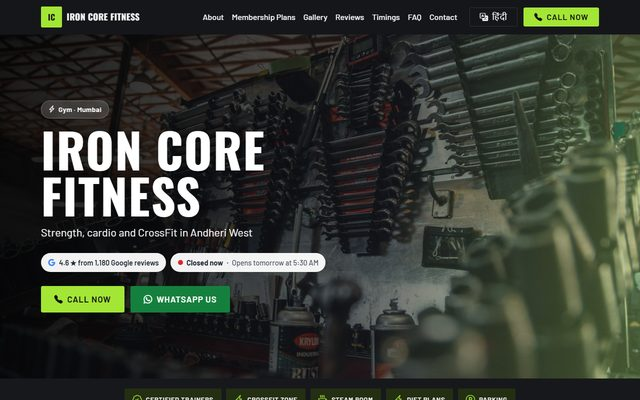
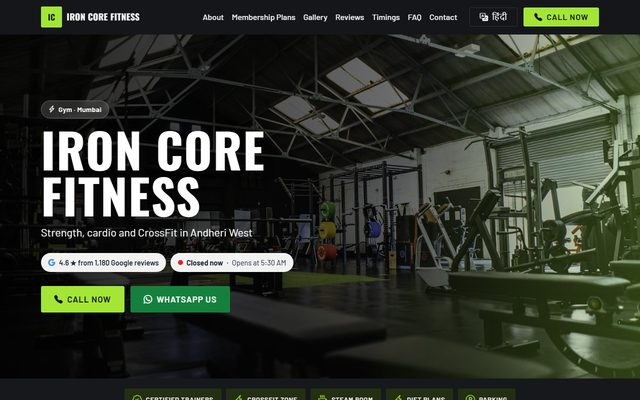
Use Devnixplus contact in samples and fix gym hero photo
- Sample demos: call/WhatsApp and developer contact set to Devnixplus
  (+91 91835 59191); link-preview meta refreshed
- Replace the fitness hero placeholder (was a workshop photo) with a gym
  interior; update credits and the showcase thumbnail

diff --git a/demos/sample-car-service/index.html b/demos/sample-car-service/index.html
@@ -7,10 +7,10 @@
   <meta name="robots" content="noindex, nofollow">
   <!-- META:START: baked from data.js by new_demo.py so link previews work; main.js also sets these at runtime -->
   <title>AutoCare Service Centre | Car Service Centre in Indore</title>
-  <meta name="description" content="Periodic service, AC and body repairs for all car brands in Indore. Plot 7, Scheme 54, Vijay Nagar, Indore, Madhya Pradesh 452010. Call +91 90000 10016.">
+  <meta name="description" content="Periodic service, AC and body repairs for all car brands in Indore. Plot 7, Scheme 54, Vijay Nagar, Indore, Madhya Pradesh 452010. Call +91 91835 59191.">
   <meta property="og:type" content="website">
   <meta property="og:title" content="AutoCare Service Centre | Car Service Centre in Indore">
-  <meta property="og:description" content="Periodic service, AC and body repairs for all car brands in Indore. Plot 7, Scheme 54, Vijay Nagar, Indore, Madhya Pradesh 452010. Call +91 90000 10016.">
+  <meta property="og:description" content="Periodic service, AC and body repairs for all car brands in Indore. Plot 7, Scheme 54, Vijay Nagar, Indore, Madhya Pradesh 452010. Call +91 91835 59191.">
   <meta property="og:image" content="https://sample-car-service.mydomain.com/placeholders/industrial/hero.jpg">
   <meta property="og:url" content="https://sample-car-service.mydomain.com/">
   <meta name="twitter:card" content="summary_large_image">

diff --git a/demos/sample-salon/index.html b/demos/sample-salon/index.html
@@ -7,10 +7,10 @@
   <meta name="robots" content="noindex, nofollow">
   <!-- META:START: baked from data.js by new_demo.py so link previews work; main.js also sets these at runtime -->
   <title>Glow &amp; Grace Unisex Salon | Salon in Bengaluru</title>
-  <meta name="description" content="Hair, skin and bridal experts in Indiranagar. No. 45, 12th Main Road, HAL 2nd Stage, Indiranagar, Bengaluru, Karnataka 560038. Call +91 99000 11223.">
+  <meta name="description" content="Hair, skin and bridal experts in Indiranagar. No. 45, 12th Main Road, HAL 2nd Stage, Indiranagar, Bengaluru, Karnataka 560038. Call +91 91835 59191.">
   <meta property="og:type" content="website">
   <meta property="og:title" content="Glow &amp; Grace Unisex Salon | Salon in Bengaluru">
-  <meta property="og:description" content="Hair, skin and bridal experts in Indiranagar. No. 45, 12th Main Road, HAL 2nd Stage, Indiranagar, Bengaluru, Karnataka 560038. Call +91 99000 11223.">
+  <meta property="og:description" content="Hair, skin and bridal experts in Indiranagar. No. 45, 12th Main Road, HAL 2nd Stage, Indiranagar, Bengaluru, Karnataka 560038. Call +91 91835 59191.">
   <meta property="og:image" content="https://images.unsplash.com/photo-1560066984-138dadb4c035?w=1600&amp;h=900&amp;fit=crop&amp;q=70">
   <meta property="og:url" content="https://sample-salon.mydomain.com/">
   <meta name="twitter:card" content="summary_large_image">

diff --git a/demos/sample-handyman/index.html b/demos/sample-handyman/index.html
@@ -7,10 +7,10 @@
   <meta name="robots" content="noindex, nofollow">
   <!-- META:START: baked from data.js by new_demo.py so link previews work; main.js also sets these at runtime -->
   <title>FixIt Home Services | Handyman Service in Pune</title>
-  <meta name="description" content="Plumbers, electricians and carpenters at your door in Pune. Shop 5, Siddhi Apartments, Karve Road, Kothrud, Pune, Maharashtra 411038. Call +91 90000 10008.">
+  <meta name="description" content="Plumbers, electricians and carpenters at your door in Pune. Shop 5, Siddhi Apartments, Karve Road, Kothrud, Pune, Maharashtra 411038. Call +91 91835 59191.">
   <meta property="og:type" content="website">
   <meta property="og:title" content="FixIt Home Services | Handyman Service in Pune">
-  <meta property="og:description" content="Plumbers, electricians and carpenters at your door in Pune. Shop 5, Siddhi Apartments, Karve Road, Kothrud, Pune, Maharashtra 411038. Call +91 90000 10008.">
+  <meta property="og:description" content="Plumbers, electricians and carpenters at your door in Pune. Shop 5, Siddhi Apartments, Karve Road, Kothrud, Pune, Maharashtra 411038. Call +91 91835 59191.">
   <meta property="og:image" content="https://sample-handyman.mydomain.com/placeholders/trades/hero.jpg">
   <meta property="og:url" content="https://sample-handyman.mydomain.com/">
   <meta name="twitter:card" content="summary_large_image">

diff --git a/demos/sample-travel/index.html b/demos/sample-travel/index.html
@@ -7,10 +7,10 @@
   <meta name="robots" content="noindex, nofollow">
   <!-- META:START: baked from data.js by new_demo.py so link previews work; main.js also sets these at runtime -->
   <title>Wanderlust Holidays | Tour &amp; Travel Agency in Jaipur</title>
-  <meta name="description" content="Holiday packages, tickets and cabs, planned end to end from Jaipur. Office 204, Ganpati Plaza, MI Road, Jaipur, Rajasthan 302001. Call +91 90000 10006.">
+  <meta name="description" content="Holiday packages, tickets and cabs, planned end to end from Jaipur. Office 204, Ganpati Plaza, MI Road, Jaipur, Rajasthan 302001. Call +91 91835 59191.">
   <meta property="og:type" content="website">
   <meta property="og:title" content="Wanderlust Holidays | Tour &amp; Travel Agency in Jaipur">
-  <meta property="og:description" content="Holiday packages, tickets and cabs, planned end to end from Jaipur. Office 204, Ganpati Plaza, MI Road, Jaipur, Rajasthan 302001. Call +91 90000 10006.">
+  <meta property="og:description" content="Holiday packages, tickets and cabs, planned end to end from Jaipur. Office 204, Ganpati Plaza, MI Road, Jaipur, Rajasthan 302001. Call +91 91835 59191.">
   <meta property="og:image" content="https://sample-travel.mydomain.com/placeholders/travel/hero.jpg">
   <meta property="og:url" content="https://sample-travel.mydomain.com/">
   <meta name="twitter:card" content="summary_large_image">

diff --git a/demos/sample-cafe/index.html b/demos/sample-cafe/index.html
@@ -7,10 +7,10 @@
   <meta name="robots" content="noindex, nofollow">
   <!-- META:START: baked from data.js by new_demo.py so link previews work; main.js also sets these at runtime -->
   <title>Brew Theory Café | Cafe in Mumbai</title>
-  <meta name="description" content="Specialty coffee, all-day breakfast and work-friendly corners in Bandra. Shop 3, Silver Arch, Hill Road, Bandra West, Mumbai, Maharashtra 400050. Call +91 90000">
+  <meta name="description" content="Specialty coffee, all-day breakfast and work-friendly corners in Bandra. Shop 3, Silver Arch, Hill Road, Bandra West, Mumbai, Maharashtra 400050. Call +91 91835">
   <meta property="og:type" content="website">
   <meta property="og:title" content="Brew Theory Café | Cafe in Mumbai">
-  <meta property="og:description" content="Specialty coffee, all-day breakfast and work-friendly corners in Bandra. Shop 3, Silver Arch, Hill Road, Bandra West, Mumbai, Maharashtra 400050. Call +91 90000">
+  <meta property="og:description" content="Specialty coffee, all-day breakfast and work-friendly corners in Bandra. Shop 3, Silver Arch, Hill Road, Bandra West, Mumbai, Maharashtra 400050. Call +91 91835">
   <meta property="og:image" content="https://sample-cafe.mydomain.com/placeholders/cafe/hero.jpg">
   <meta property="og:url" content="https://sample-cafe.mydomain.com/">
   <meta name="twitter:card" content="summary_large_image">

diff --git a/demos/sample-spa/index.html b/demos/sample-spa/index.html
@@ -7,10 +7,10 @@
   <meta name="robots" content="noindex, nofollow">
   <!-- META:START: baked from data.js by new_demo.py so link previews work; main.js also sets these at runtime -->
   <title>Tranquil Leaf Spa &amp; Massage | Spa in Bengaluru</title>
-  <meta name="description" content="Ayurvedic and modern massage therapies in Koramangala. No. 21, 5th Block, 80 Feet Road, Koramangala, Bengaluru, Karnataka 560095. Call +91 90000 10001.">
+  <meta name="description" content="Ayurvedic and modern massage therapies in Koramangala. No. 21, 5th Block, 80 Feet Road, Koramangala, Bengaluru, Karnataka 560095. Call +91 91835 59191.">
   <meta property="og:type" content="website">
   <meta property="og:title" content="Tranquil Leaf Spa &amp; Massage | Spa in Bengaluru">
-  <meta property="og:description" content="Ayurvedic and modern massage therapies in Koramangala. No. 21, 5th Block, 80 Feet Road, Koramangala, Bengaluru, Karnataka 560095. Call +91 90000 10001.">
+  <meta property="og:description" content="Ayurvedic and modern massage therapies in Koramangala. No. 21, 5th Block, 80 Feet Road, Koramangala, Bengaluru, Karnataka 560095. Call +91 91835 59191.">
   <meta property="og:image" content="https://sample-spa.mydomain.com/placeholders/wellness/hero.jpg">
   <meta property="og:url" content="https://sample-spa.mydomain.com/">
   <meta name="twitter:card" content="summary_large_image">

diff --git a/demos/sample-boutique/index.html b/demos/sample-boutique/index.html
@@ -7,10 +7,10 @@
   <meta name="robots" content="noindex, nofollow">
   <!-- META:START: baked from data.js by new_demo.py so link previews work; main.js also sets these at runtime -->
   <title>Rangoli Designer Boutique | Boutique in Ahmedabad</title>
-  <meta name="description" content="Handpicked sarees, suits and custom-stitched outfits in Ahmedabad. 12, Shivalik Plaza, Navrangpura, Ahmedabad, Gujarat 380009. Call +91 90000 10012.">
+  <meta name="description" content="Handpicked sarees, suits and custom-stitched outfits in Ahmedabad. 12, Shivalik Plaza, Navrangpura, Ahmedabad, Gujarat 380009. Call +91 91835 59191.">
   <meta property="og:type" content="website">
   <meta property="og:title" content="Rangoli Designer Boutique | Boutique in Ahmedabad">
-  <meta property="og:description" content="Handpicked sarees, suits and custom-stitched outfits in Ahmedabad. 12, Shivalik Plaza, Navrangpura, Ahmedabad, Gujarat 380009. Call +91 90000 10012.">
+  <meta property="og:description" content="Handpicked sarees, suits and custom-stitched outfits in Ahmedabad. 12, Shivalik Plaza, Navrangpura, Ahmedabad, Gujarat 380009. Call +91 91835 59191.">
   <meta property="og:image" content="https://sample-boutique.mydomain.com/placeholders/boutique/hero.jpg">
   <meta property="og:url" content="https://sample-boutique.mydomain.com/">
   <meta name="twitter:card" content="summary_large_image">

diff --git a/demos/sample-hardware/index.html b/demos/sample-hardware/index.html
@@ -7,10 +7,10 @@
   <meta name="robots" content="noindex, nofollow">
   <!-- META:START: baked from data.js by new_demo.py so link previews work; main.js also sets these at runtime -->
   <title>Patel Hardware &amp; Paints | Hardware Store in Surat</title>
-  <meta name="description" content="Tools, plumbing, electricals and paints under one roof in Surat. Shop 4-6, Star Bazaar Road, Adajan, Surat, Gujarat 395009. Call +91 90000 10018.">
+  <meta name="description" content="Tools, plumbing, electricals and paints under one roof in Surat. Shop 4-6, Star Bazaar Road, Adajan, Surat, Gujarat 395009. Call +91 91835 59191.">
   <meta property="og:type" content="website">
   <meta property="og:title" content="Patel Hardware &amp; Paints | Hardware Store in Surat">
-  <meta property="og:description" content="Tools, plumbing, electricals and paints under one roof in Surat. Shop 4-6, Star Bazaar Road, Adajan, Surat, Gujarat 395009. Call +91 90000 10018.">
+  <meta property="og:description" content="Tools, plumbing, electricals and paints under one roof in Surat. Shop 4-6, Star Bazaar Road, Adajan, Surat, Gujarat 395009. Call +91 91835 59191.">
   <meta property="og:image" content="https://sample-hardware.mydomain.com/placeholders/hardware/hero.jpg">
   <meta property="og:url" content="https://sample-hardware.mydomain.com/">
   <meta name="twitter:card" content="summary_large_image">

diff --git a/demos/sample-clinic/index.html b/demos/sample-clinic/index.html
@@ -7,10 +7,10 @@
   <meta name="robots" content="noindex, nofollow">
   <!-- META:START: baked from data.js by new_demo.py so link previews work; main.js also sets these at runtime -->
   <title>Dr. Mehta&#x27;s Family Clinic | Clinic in Ahmedabad</title>
-  <meta name="description" content="Caring, honest treatment for your whole family. 2nd Floor, Shivam Complex, CG Road, Navrangpura, Ahmedabad, Gujarat 380009. Call +91 97250 12345.">
+  <meta name="description" content="Caring, honest treatment for your whole family. 2nd Floor, Shivam Complex, CG Road, Navrangpura, Ahmedabad, Gujarat 380009. Call +91 91835 59191.">
   <meta property="og:type" content="website">
   <meta property="og:title" content="Dr. Mehta&#x27;s Family Clinic | Clinic in Ahmedabad">
-  <meta property="og:description" content="Caring, honest treatment for your whole family. 2nd Floor, Shivam Complex, CG Road, Navrangpura, Ahmedabad, Gujarat 380009. Call +91 97250 12345.">
+  <meta property="og:description" content="Caring, honest treatment for your whole family. 2nd Floor, Shivam Complex, CG Road, Navrangpura, Ahmedabad, Gujarat 380009. Call +91 91835 59191.">
   <meta property="og:image" content="https://sample-clinic.mydomain.com/placeholders/medical/hero.jpg">
   <meta property="og:url" content="https://sample-clinic.mydomain.com/">
   <meta name="twitter:card" content="summary_large_image">

diff --git a/demos/sample-real-estate/index.html b/demos/sample-real-estate/index.html
@@ -7,10 +7,10 @@
   <meta name="robots" content="noindex, nofollow">
   <!-- META:START: baked from data.js by new_demo.py so link previews work; main.js also sets these at runtime -->
   <title>Prime Nest Realty | Real Estate Agency in Hyderabad</title>
-  <meta name="description" content="Verified flats, villas and plots in Gachibowli and Kondapur. Plot 88, DLF Road, Gachibowli, Hyderabad, Telangana 500032. Call +91 90000 10009.">
+  <meta name="description" content="Verified flats, villas and plots in Gachibowli and Kondapur. Plot 88, DLF Road, Gachibowli, Hyderabad, Telangana 500032. Call +91 91835 59191.">
   <meta property="og:type" content="website">
   <meta property="og:title" content="Prime Nest Realty | Real Estate Agency in Hyderabad">
-  <meta property="og:description" content="Verified flats, villas and plots in Gachibowli and Kondapur. Plot 88, DLF Road, Gachibowli, Hyderabad, Telangana 500032. Call +91 90000 10009.">
+  <meta property="og:description" content="Verified flats, villas and plots in Gachibowli and Kondapur. Plot 88, DLF Road, Gachibowli, Hyderabad, Telangana 500032. Call +91 91835 59191.">
   <meta property="og:image" content="https://sample-real-estate.mydomain.com/placeholders/real-estate/hero.jpg">
   <meta property="og:url" content="https://sample-real-estate.mydomain.com/">
   <meta name="twitter:card" content="summary_large_image">

diff --git a/demos/sample-bar/index.html b/demos/sample-bar/index.html
@@ -7,10 +7,10 @@
   <meta name="robots" content="noindex, nofollow">
   <!-- META:START: baked from data.js by new_demo.py so link previews work; main.js also sets these at runtime -->
   <title>The Copper Tap | Bar in Bengaluru</title>
-  <meta name="description" content="Craft beer, cocktails and live music in Indiranagar. No. 742, 100 Feet Road, HAL 2nd Stage, Indiranagar, Bengaluru, Karnataka 560038. Call +91 90000 10004.">
+  <meta name="description" content="Craft beer, cocktails and live music in Indiranagar. No. 742, 100 Feet Road, HAL 2nd Stage, Indiranagar, Bengaluru, Karnataka 560038. Call +91 91835 59191.">
   <meta property="og:type" content="website">
   <meta property="og:title" content="The Copper Tap | Bar in Bengaluru">
-  <meta property="og:description" content="Craft beer, cocktails and live music in Indiranagar. No. 742, 100 Feet Road, HAL 2nd Stage, Indiranagar, Bengaluru, Karnataka 560038. Call +91 90000 10004.">
+  <meta property="og:description" content="Craft beer, cocktails and live music in Indiranagar. No. 742, 100 Feet Road, HAL 2nd Stage, Indiranagar, Bengaluru, Karnataka 560038. Call +91 91835 59191.">
   <meta property="og:image" content="https://sample-bar.mydomain.com/placeholders/nightlife/hero.jpg">
   <meta property="og:url" content="https://sample-bar.mydomain.com/">
   <meta name="twitter:card" content="summary_large_image">

diff --git a/demos/sample-taxi/index.html b/demos/sample-taxi/index.html
@@ -7,10 +7,10 @@
   <meta name="robots" content="noindex, nofollow">
   <!-- META:START: baked from data.js by new_demo.py so link previews work; main.js also sets these at runtime -->
   <title>Sharma Cabs | Taxi Service in Indore</title>
-  <meta name="description" content="Airport, railway and outstation cabs from Indore, day and night. Shop 7, Vijay Nagar Square, AB Road, Indore, Madhya Pradesh 452010. Call +91 90000 10024.">
+  <meta name="description" content="Airport, railway and outstation cabs from Indore, day and night. Shop 7, Vijay Nagar Square, AB Road, Indore, Madhya Pradesh 452010. Call +91 91835 59191.">
   <meta property="og:type" content="website">
   <meta property="og:title" content="Sharma Cabs | Taxi Service in Indore">
-  <meta property="og:description" content="Airport, railway and outstation cabs from Indore, day and night. Shop 7, Vijay Nagar Square, AB Road, Indore, Madhya Pradesh 452010. Call +91 90000 10024.">
+  <meta property="og:description" content="Airport, railway and outstation cabs from Indore, day and night. Shop 7, Vijay Nagar Square, AB Road, Indore, Madhya Pradesh 452010. Call +91 91835 59191.">
   <meta property="og:image" content="https://sample-taxi.mydomain.com/placeholders/taxi/hero.jpg">
   <meta property="og:url" content="https://sample-taxi.mydomain.com/">
   <meta name="twitter:card" content="summary_large_image">
